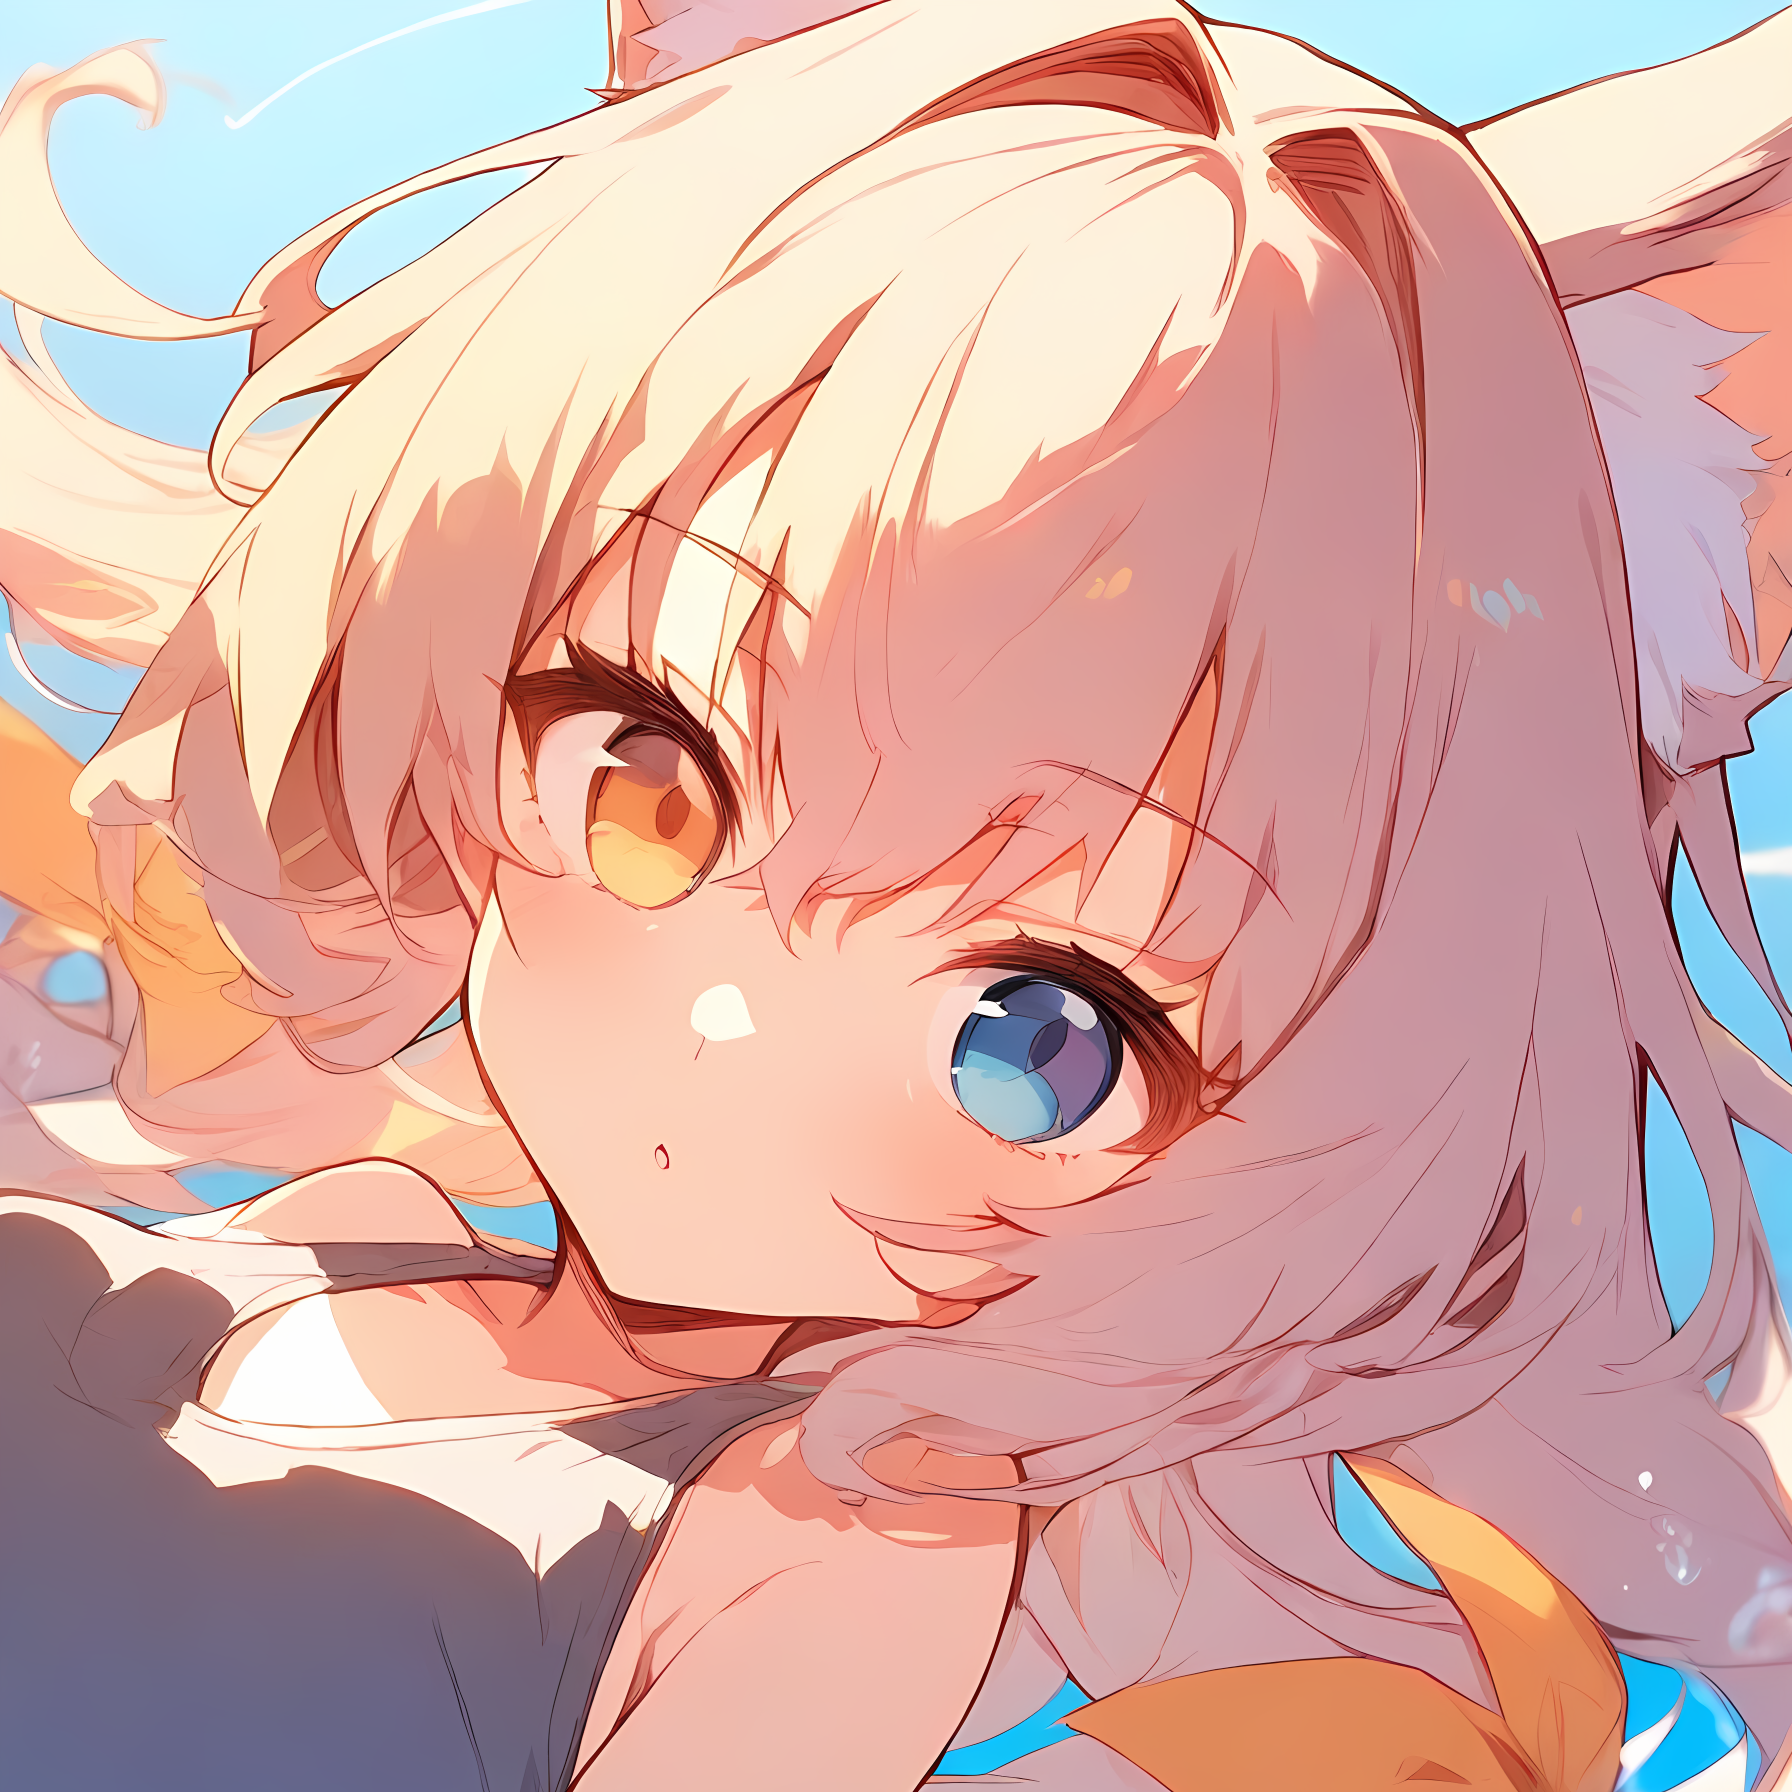
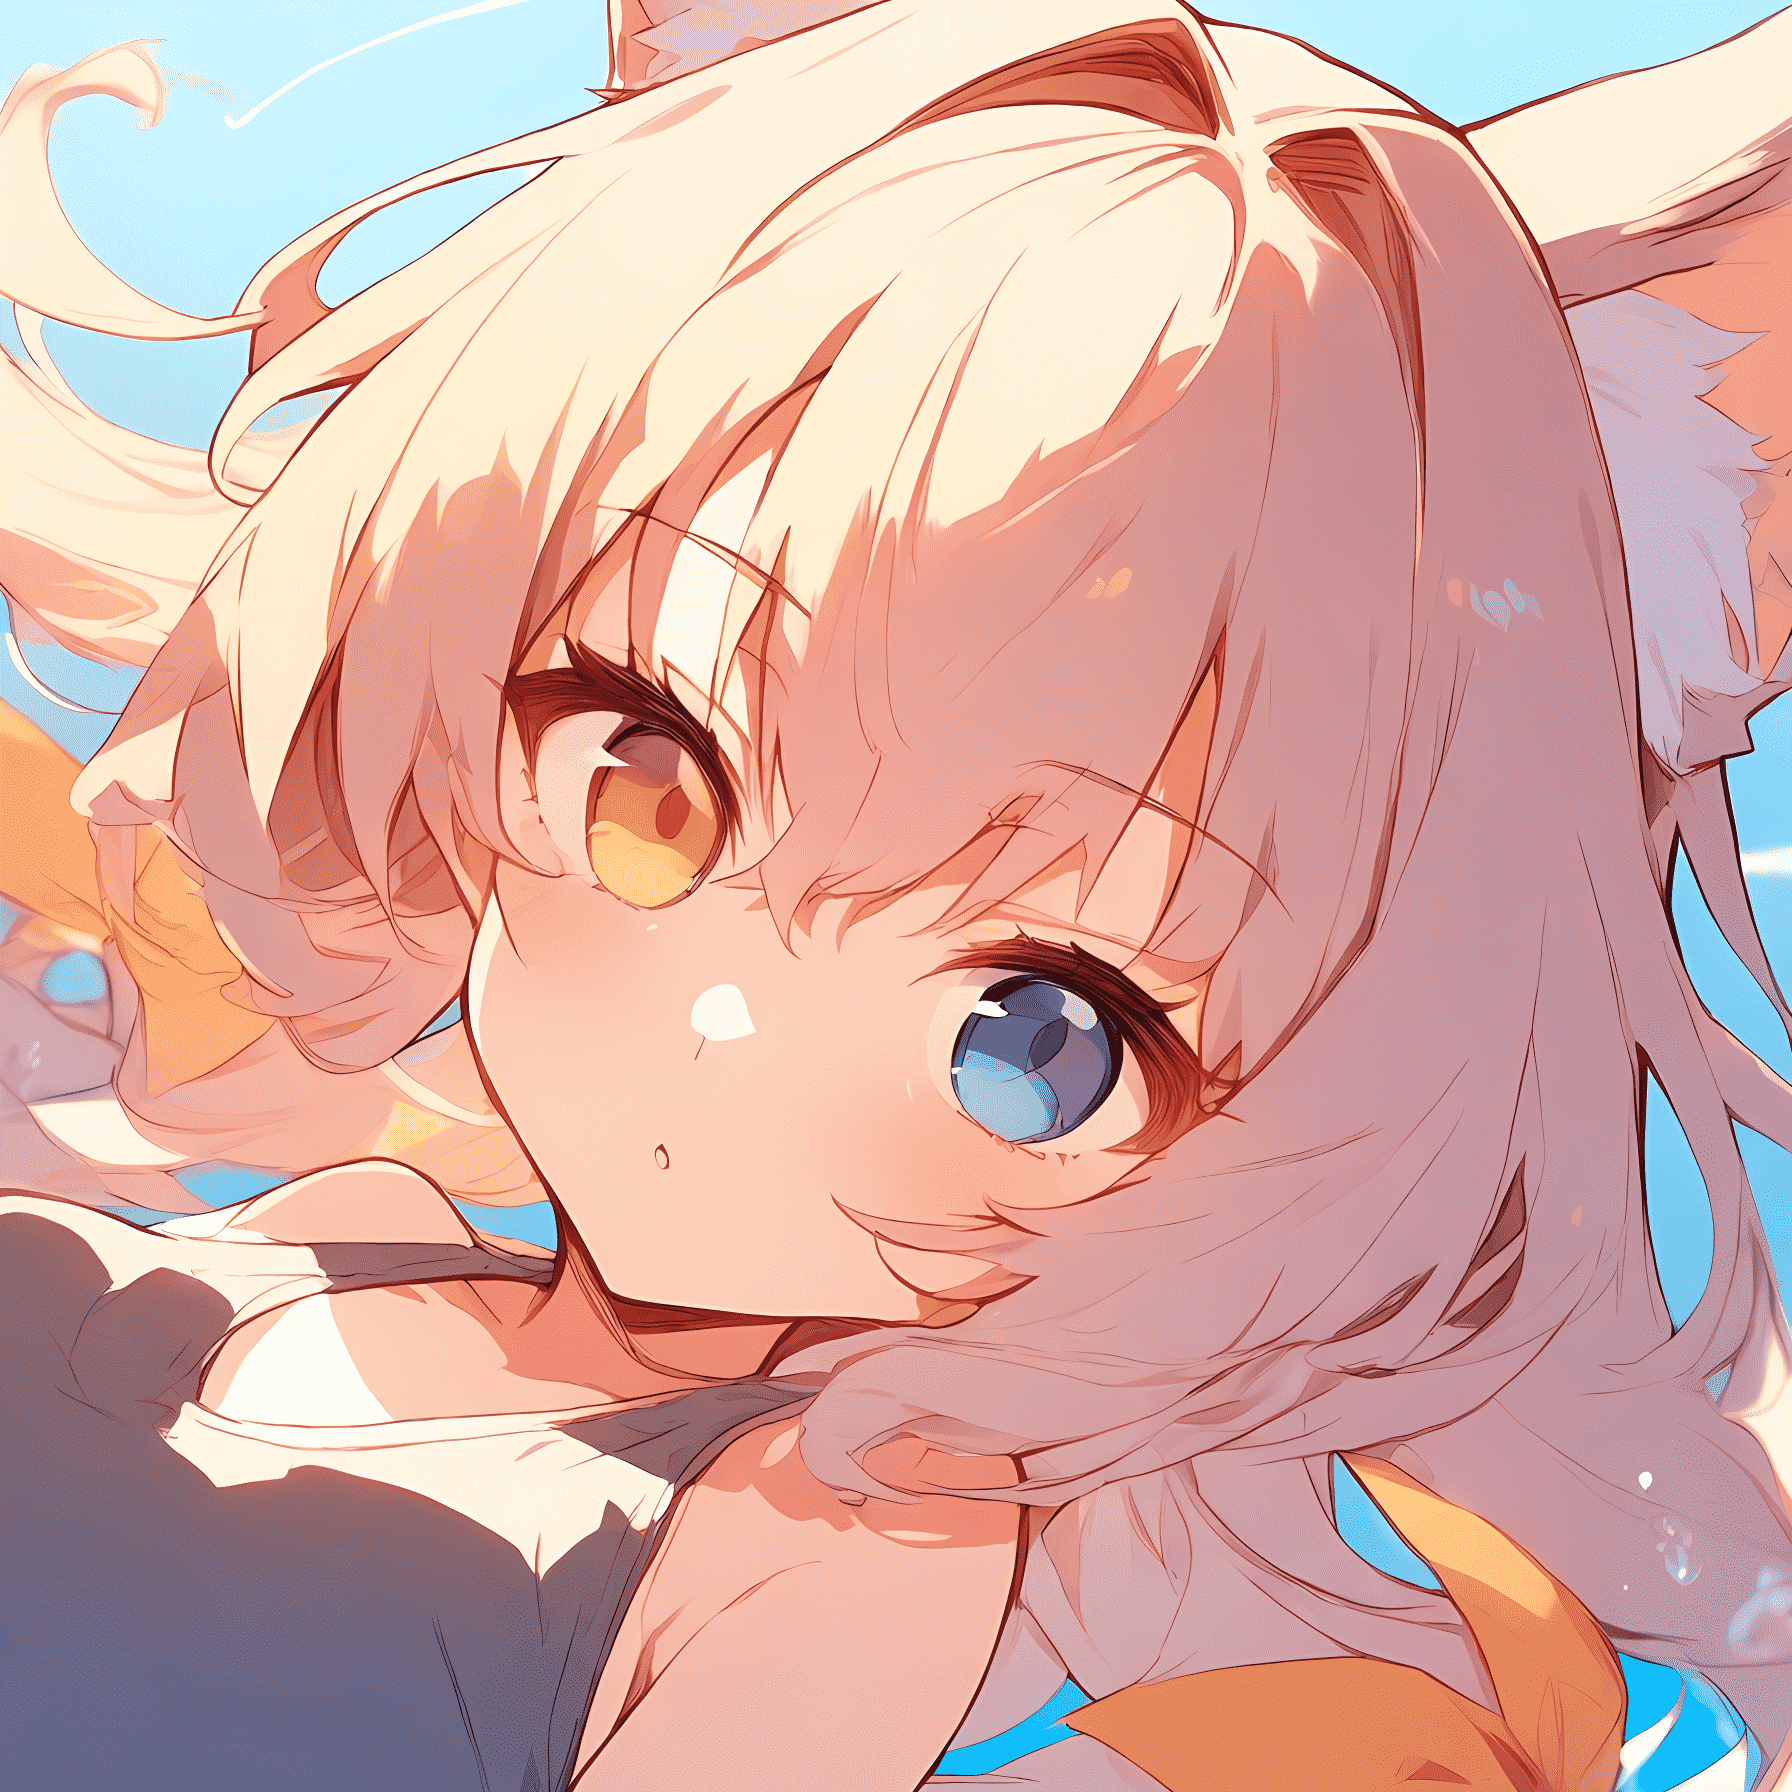
压缩图片

diff --git a/style.css b/style.css
@@ -82,7 +82,7 @@ main a:hover{
 .intro{  
     left: 6vw;
     width: 38vw;
-    height: 640px;
+    height: 600px;
     margin-top: 25px;
     display: flex;
     flex-direction: column;
